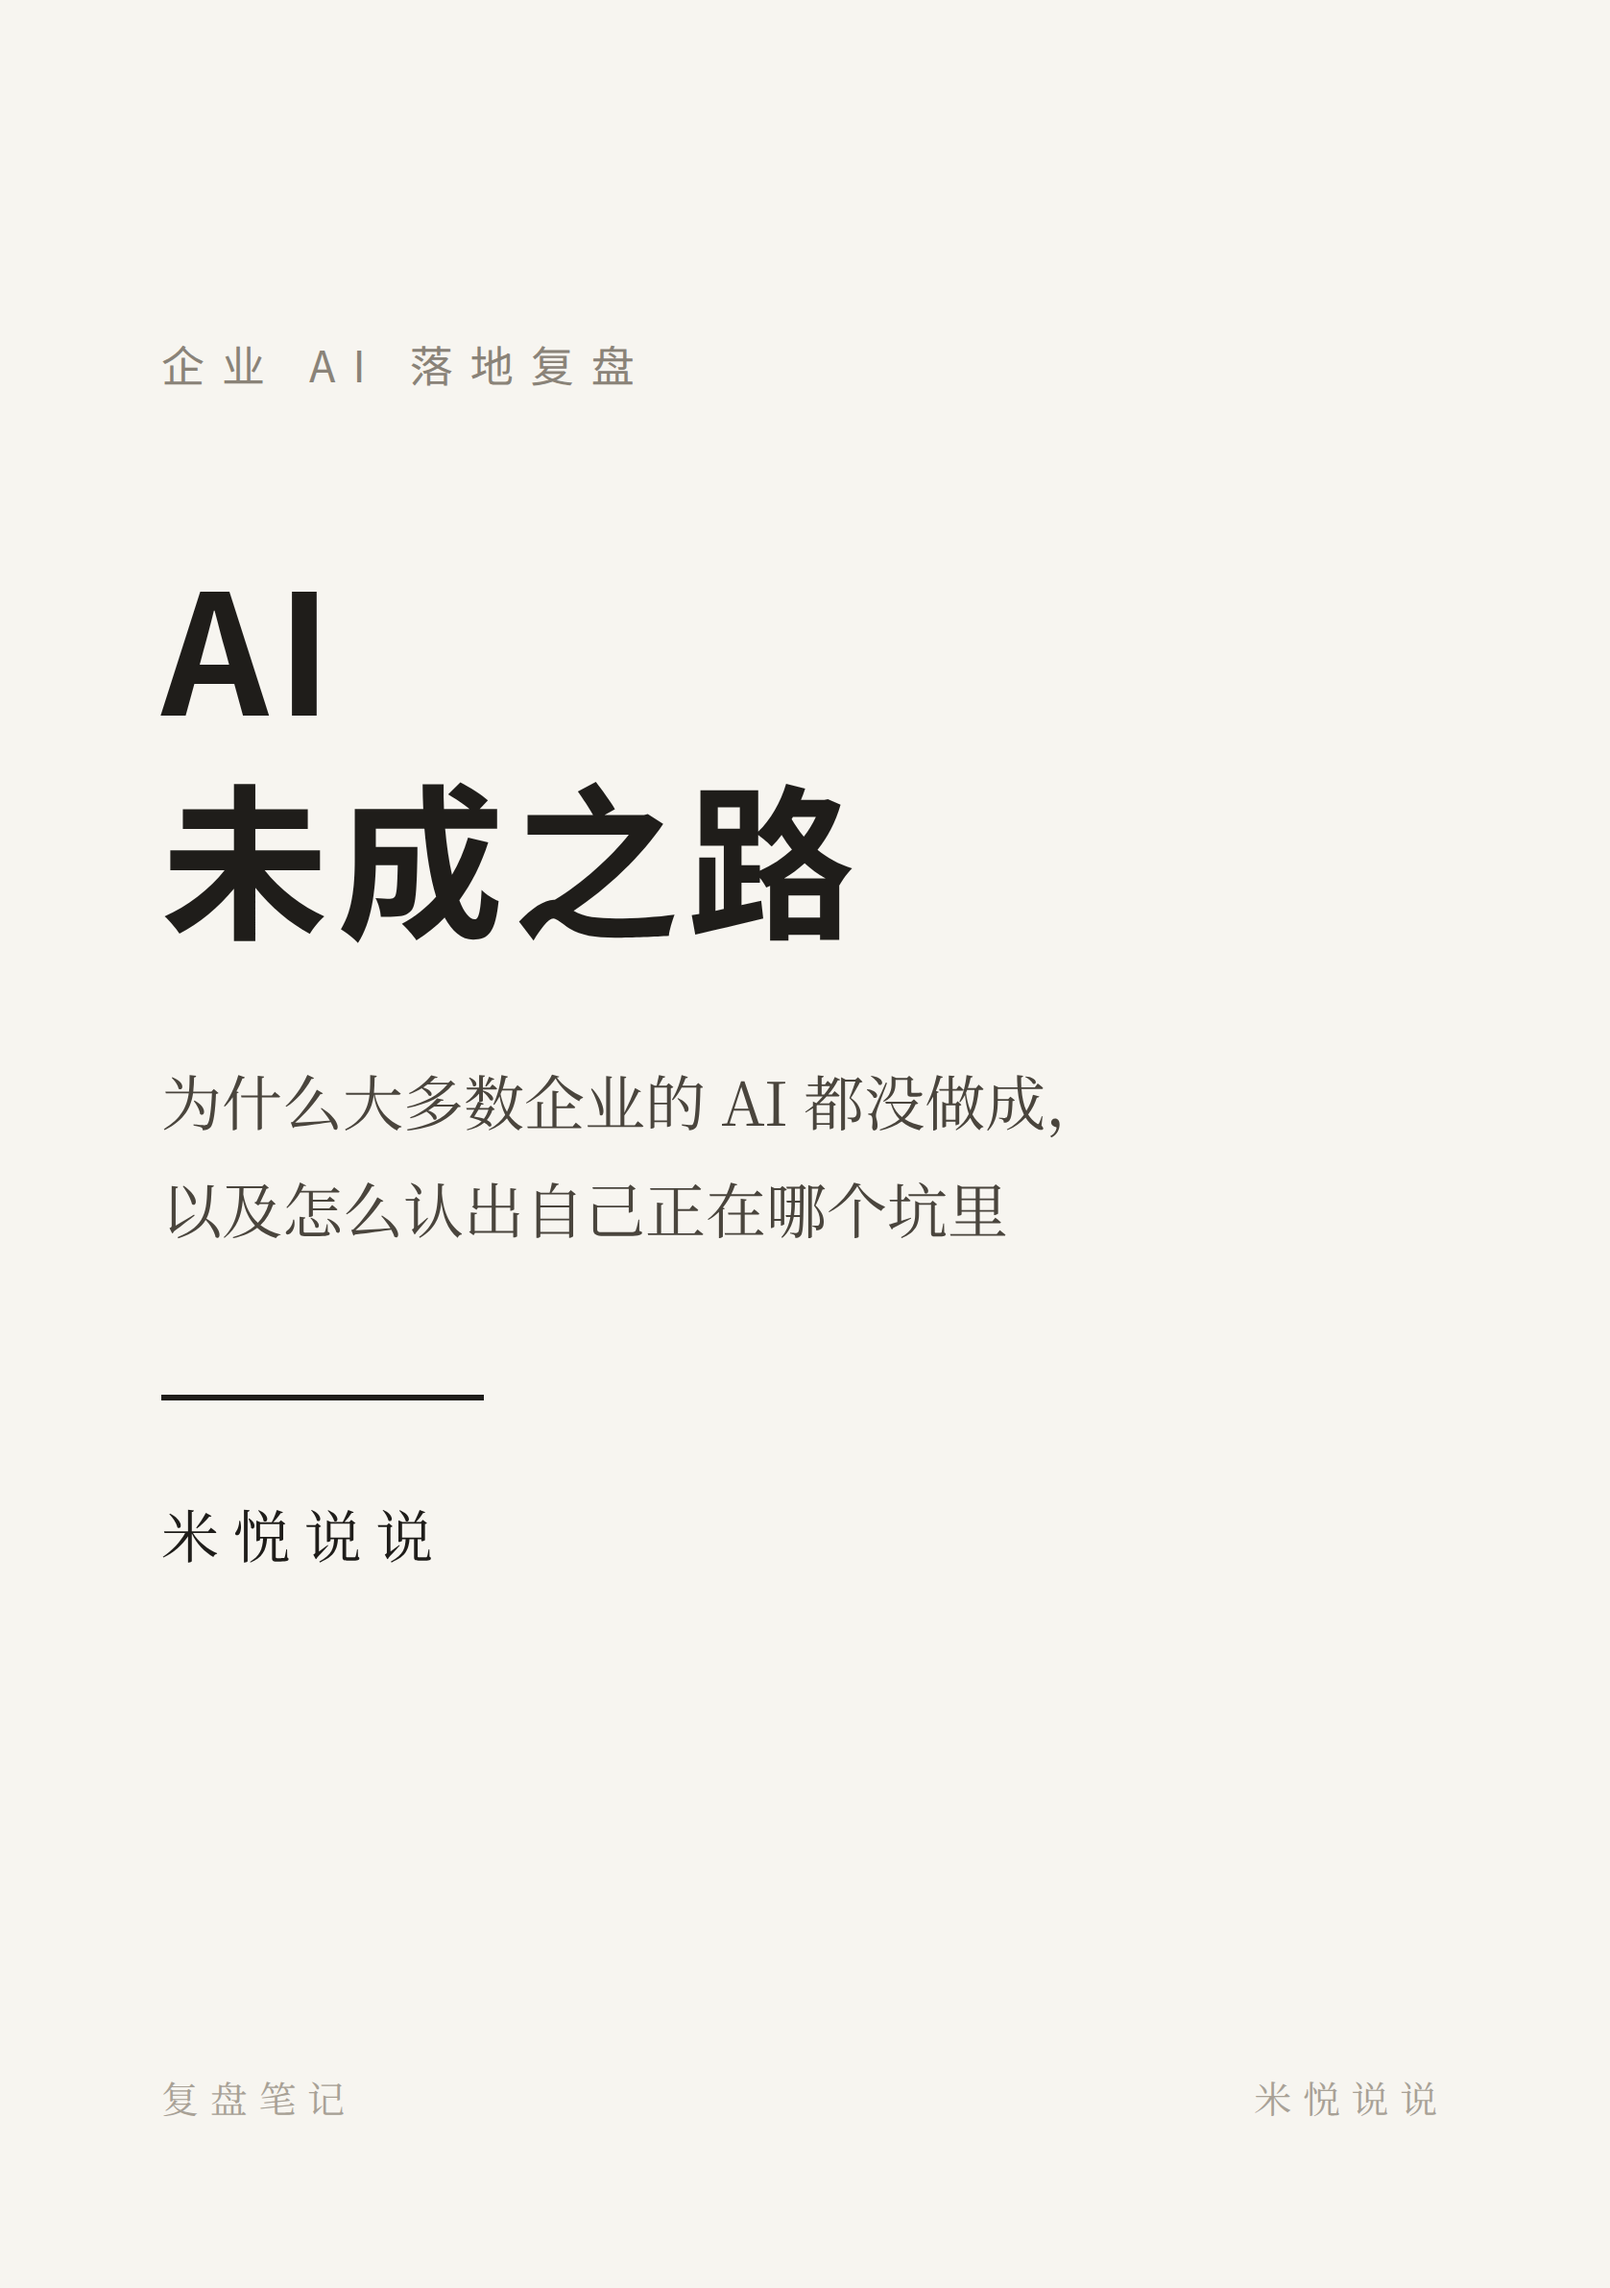
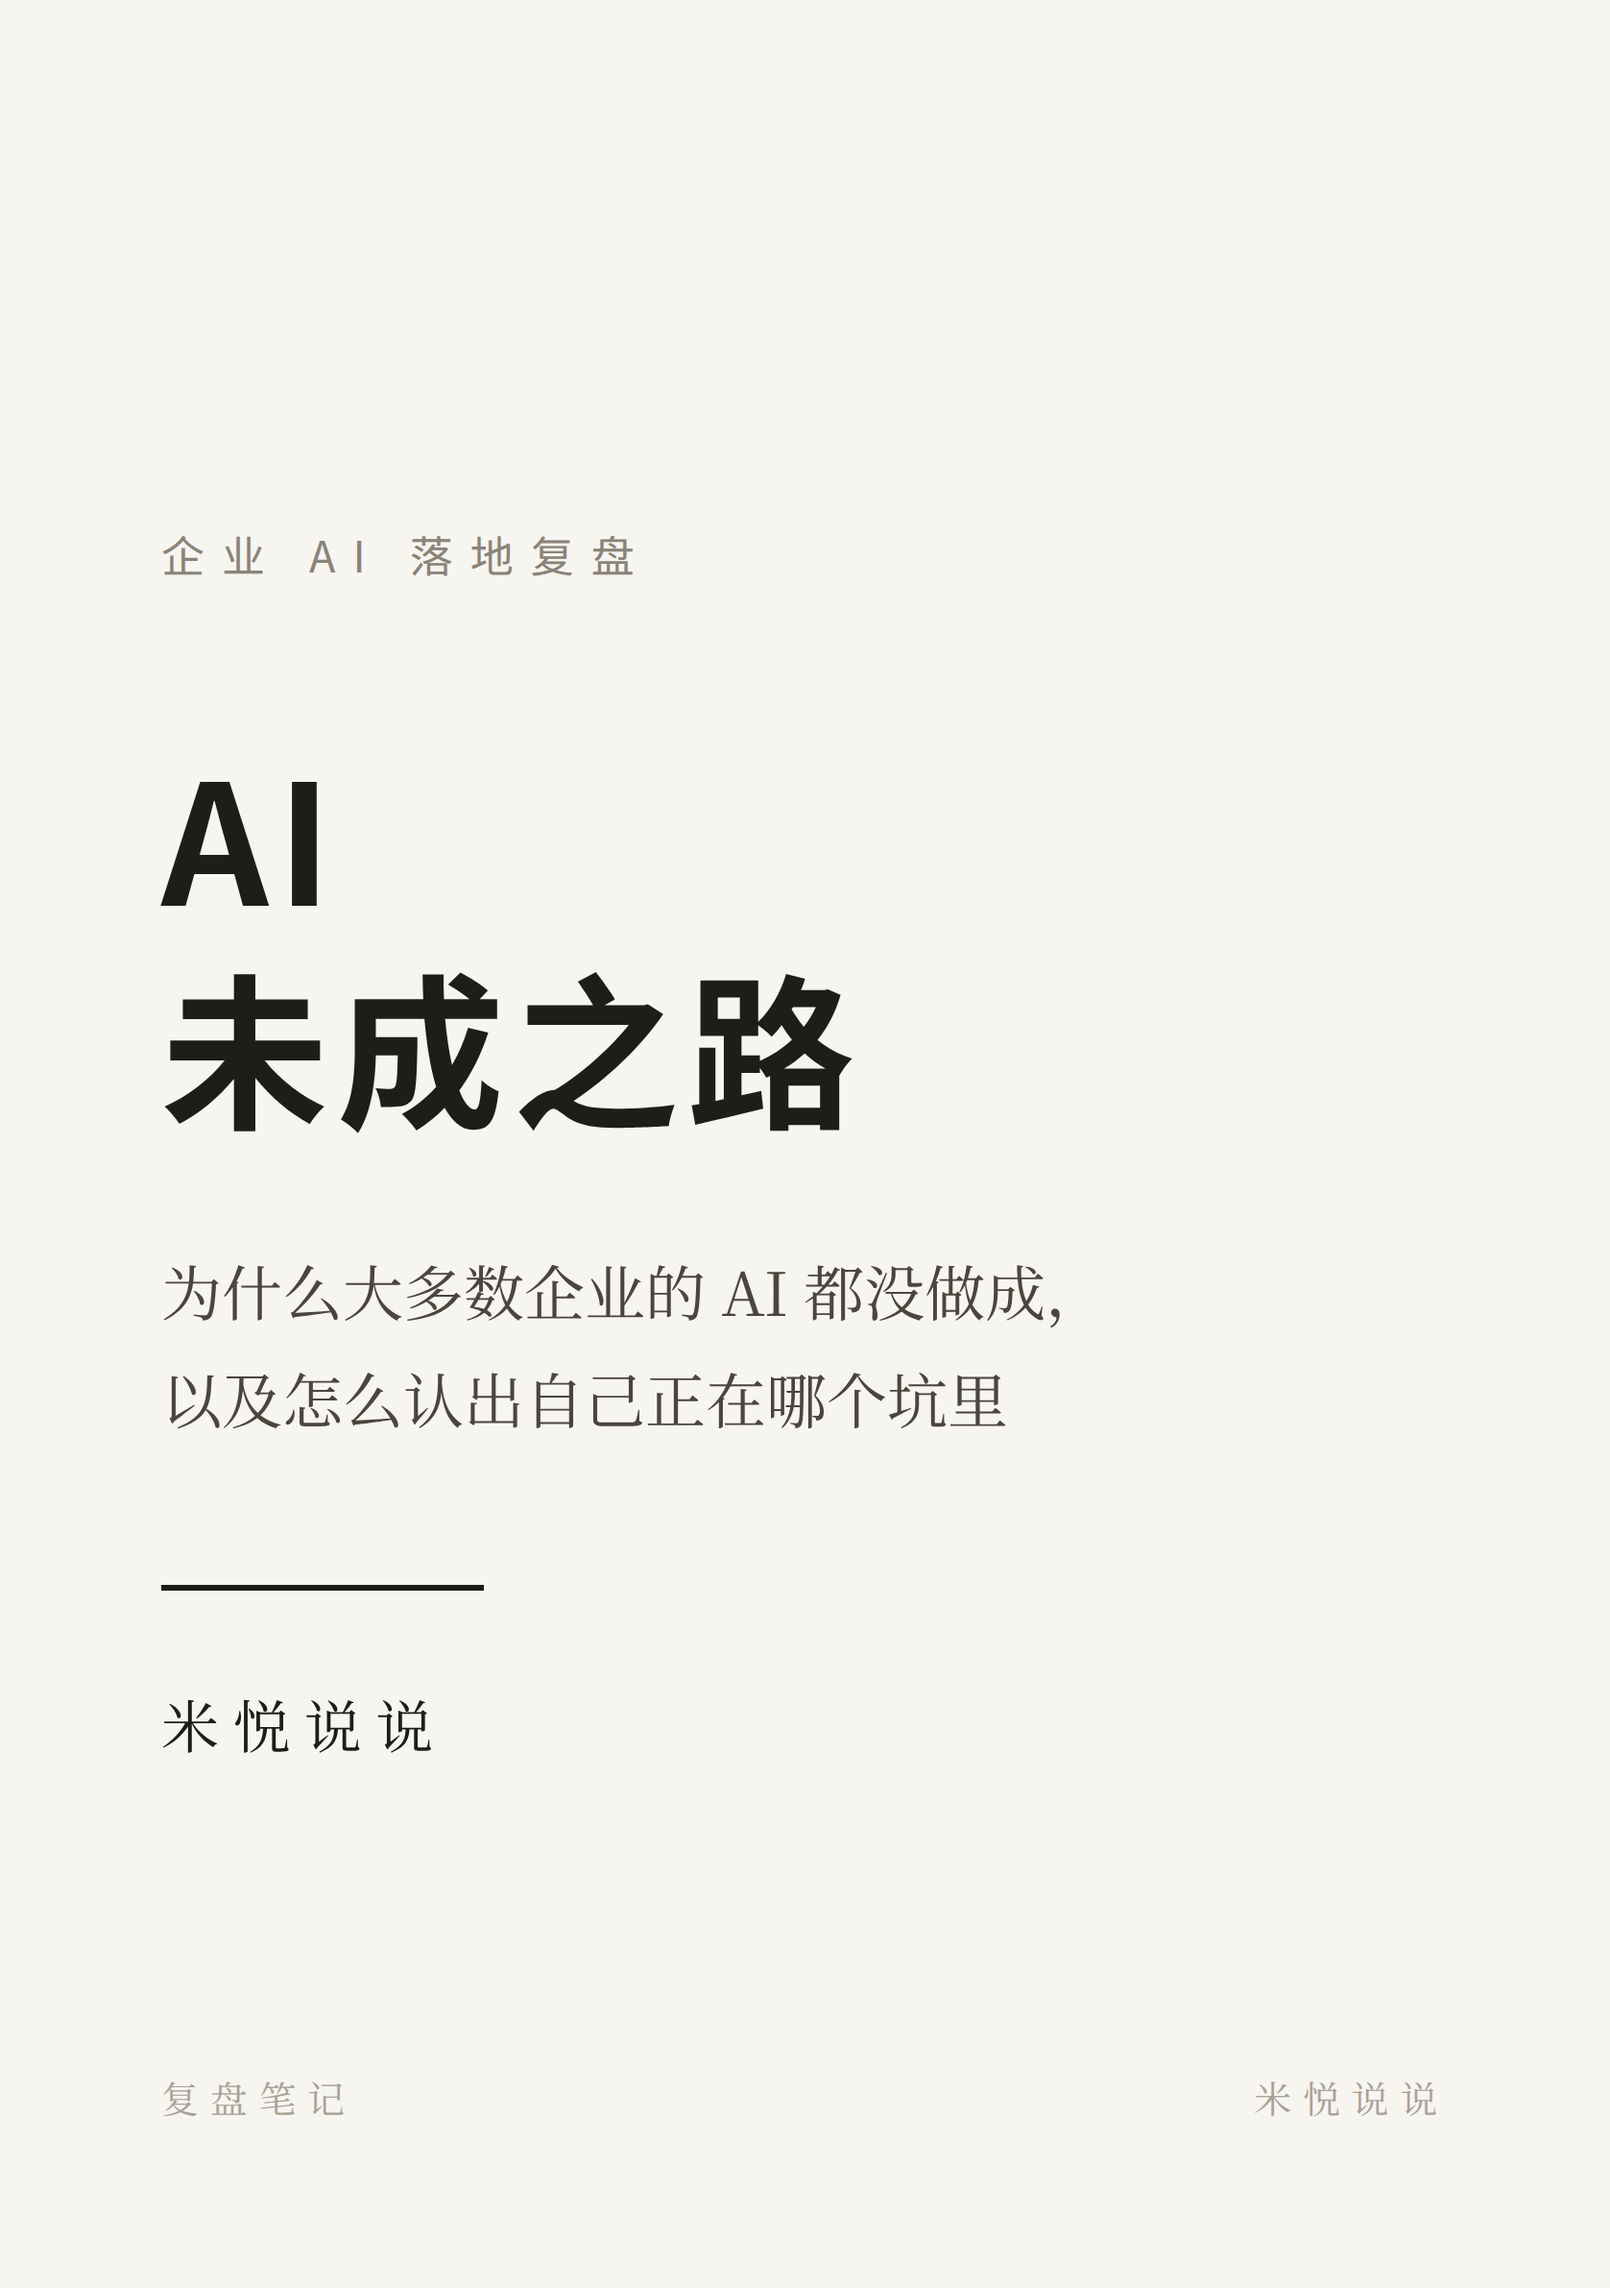
fix(封面): v3 微调 — 整体下移66px对齐页面视觉中心 + C方案首行提为粗体主行
据多模态 agent (mn21) 第二轮复检:
- 复检结论: 四张全部可用；A/B/D 可直接上架，C 建议微调
- 遗留: 四张主内容块视觉中心均在 993px，页面中心 1191px，统一偏上约200px(≈27mm)
  → .main 加 padding-top:132px，内容块下移 66 CSS px，视觉中心对齐页面中心
- C 方案: 三行层级仅靠明度区分，首行信息量最大却与第三行同档
  → 首行提为粗体主行(.nums b 23px/700)，建立字号+字重层级
- 全部四张下边距统一 180px(16-20mm)，无溢出/截断/重叠/贴边

diff --git a/AI落地/企业AI落地避坑/草稿/gen_covers.py b/AI落地/企业AI落地避坑/草稿/gen_covers.py
@@ -25,8 +25,8 @@ BASE = """
 html,body{width:%(W)dpx;height:%(H)dpx;overflow:hidden}
 .cover{width:%(W)dpx;height:%(H)dpx;position:relative;overflow:hidden;
   font-family:"Noto Serif CJK SC","Source Han Serif SC",serif;}
-.main{position:absolute;left:0;right:0;top:0;bottom:132px;
-  padding:0 56px;display:flex;flex-direction:column;justify-content:center}
+.main{position:absolute;left:0;right:0;top:0;bottom:132px;padding:132px 56px 0;
+  display:flex;flex-direction:column;justify-content:center}
 .foot{position:absolute;left:0;right:0;bottom:0;height:132px;
   padding:0 56px;display:flex;align-items:center;justify-content:space-between}
 .sans{font-family:"Noto Sans CJK SC","Source Han Sans SC",sans-serif}
@@ -111,6 +111,7 @@ CSS_C = """
 .nums{font-family:"Noto Serif CJK SC",serif;font-size:22px;line-height:2.0;
   color:#2c2823;margin-bottom:46px}
 .nums .concl{color:#8a8378;font-size:20px}
+.nums b{font-weight:700;font-size:23px}
 .rule{background:#1f1d1a;margin-bottom:32px}
 .author{font-size:20px}
 .foot .cat{font-size:13px;color:#a8a196;letter-spacing:.30em}
@@ -119,7 +120,7 @@ BODY_C = """
 <div class="main">
   <div class="eyebrow">企业 AI 落地复盘</div>
   <div class="title">AI<br>未成之路</div>
-  <div class="nums">数百人参与 · 数十支队伍<br>一百五十余项需求<br>
+  <div class="nums"><b>数百人参与 · 数十支队伍</b><br>一百五十余项需求<br>
     <span class="concl">—— 最终落地：数个场景</span></div>
   <div class="rule"></div>
   <div class="author">米悦说说</div>
